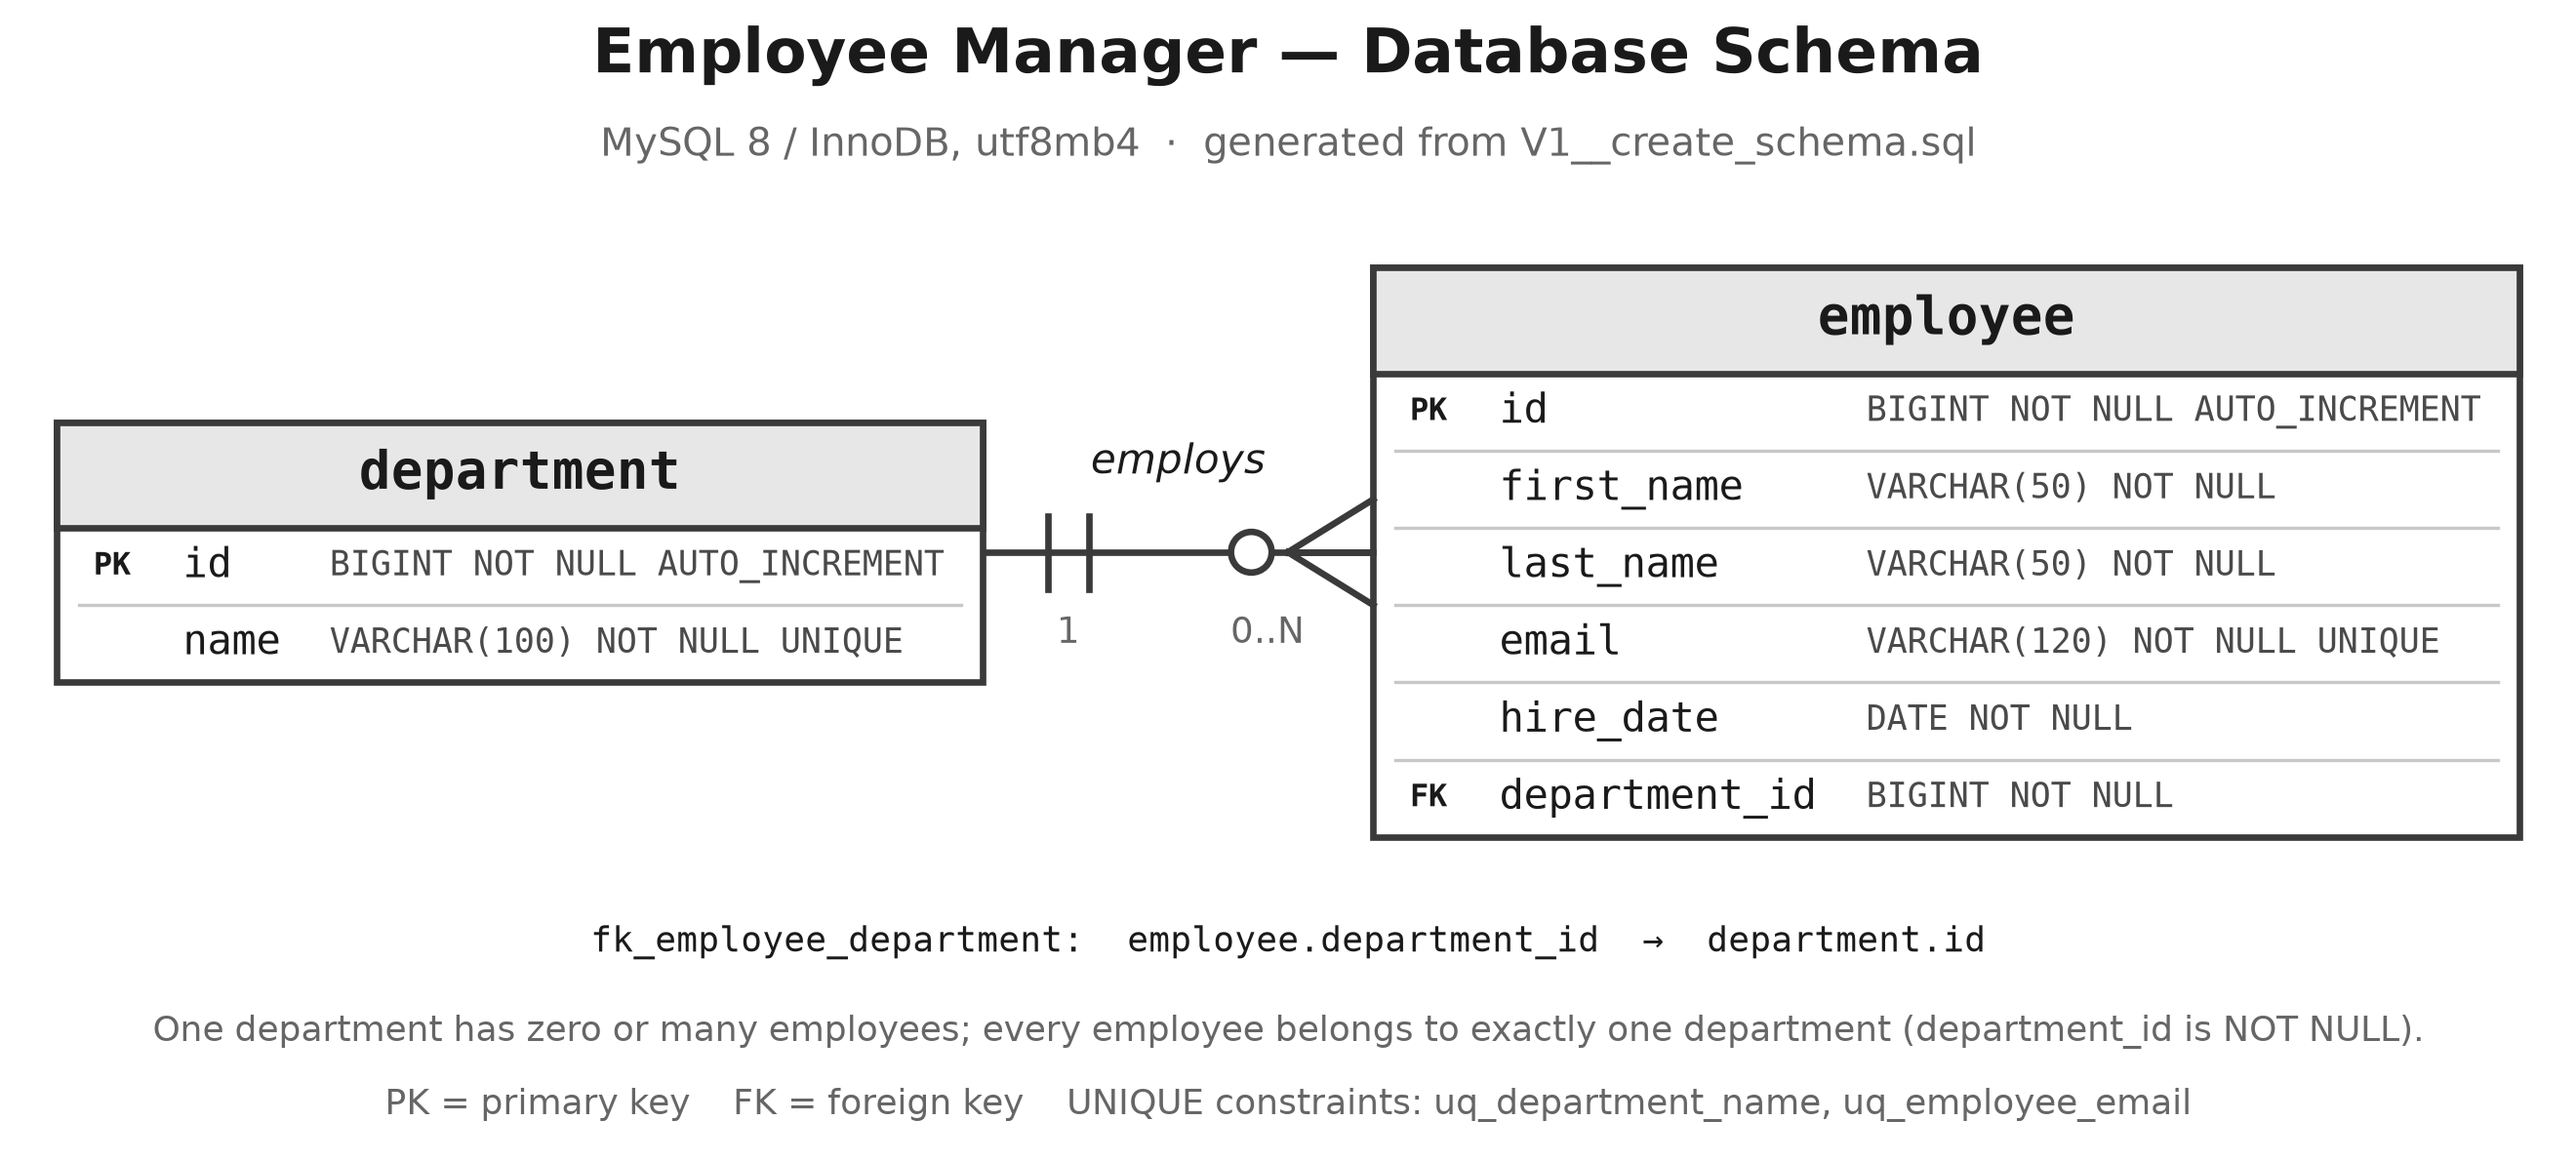
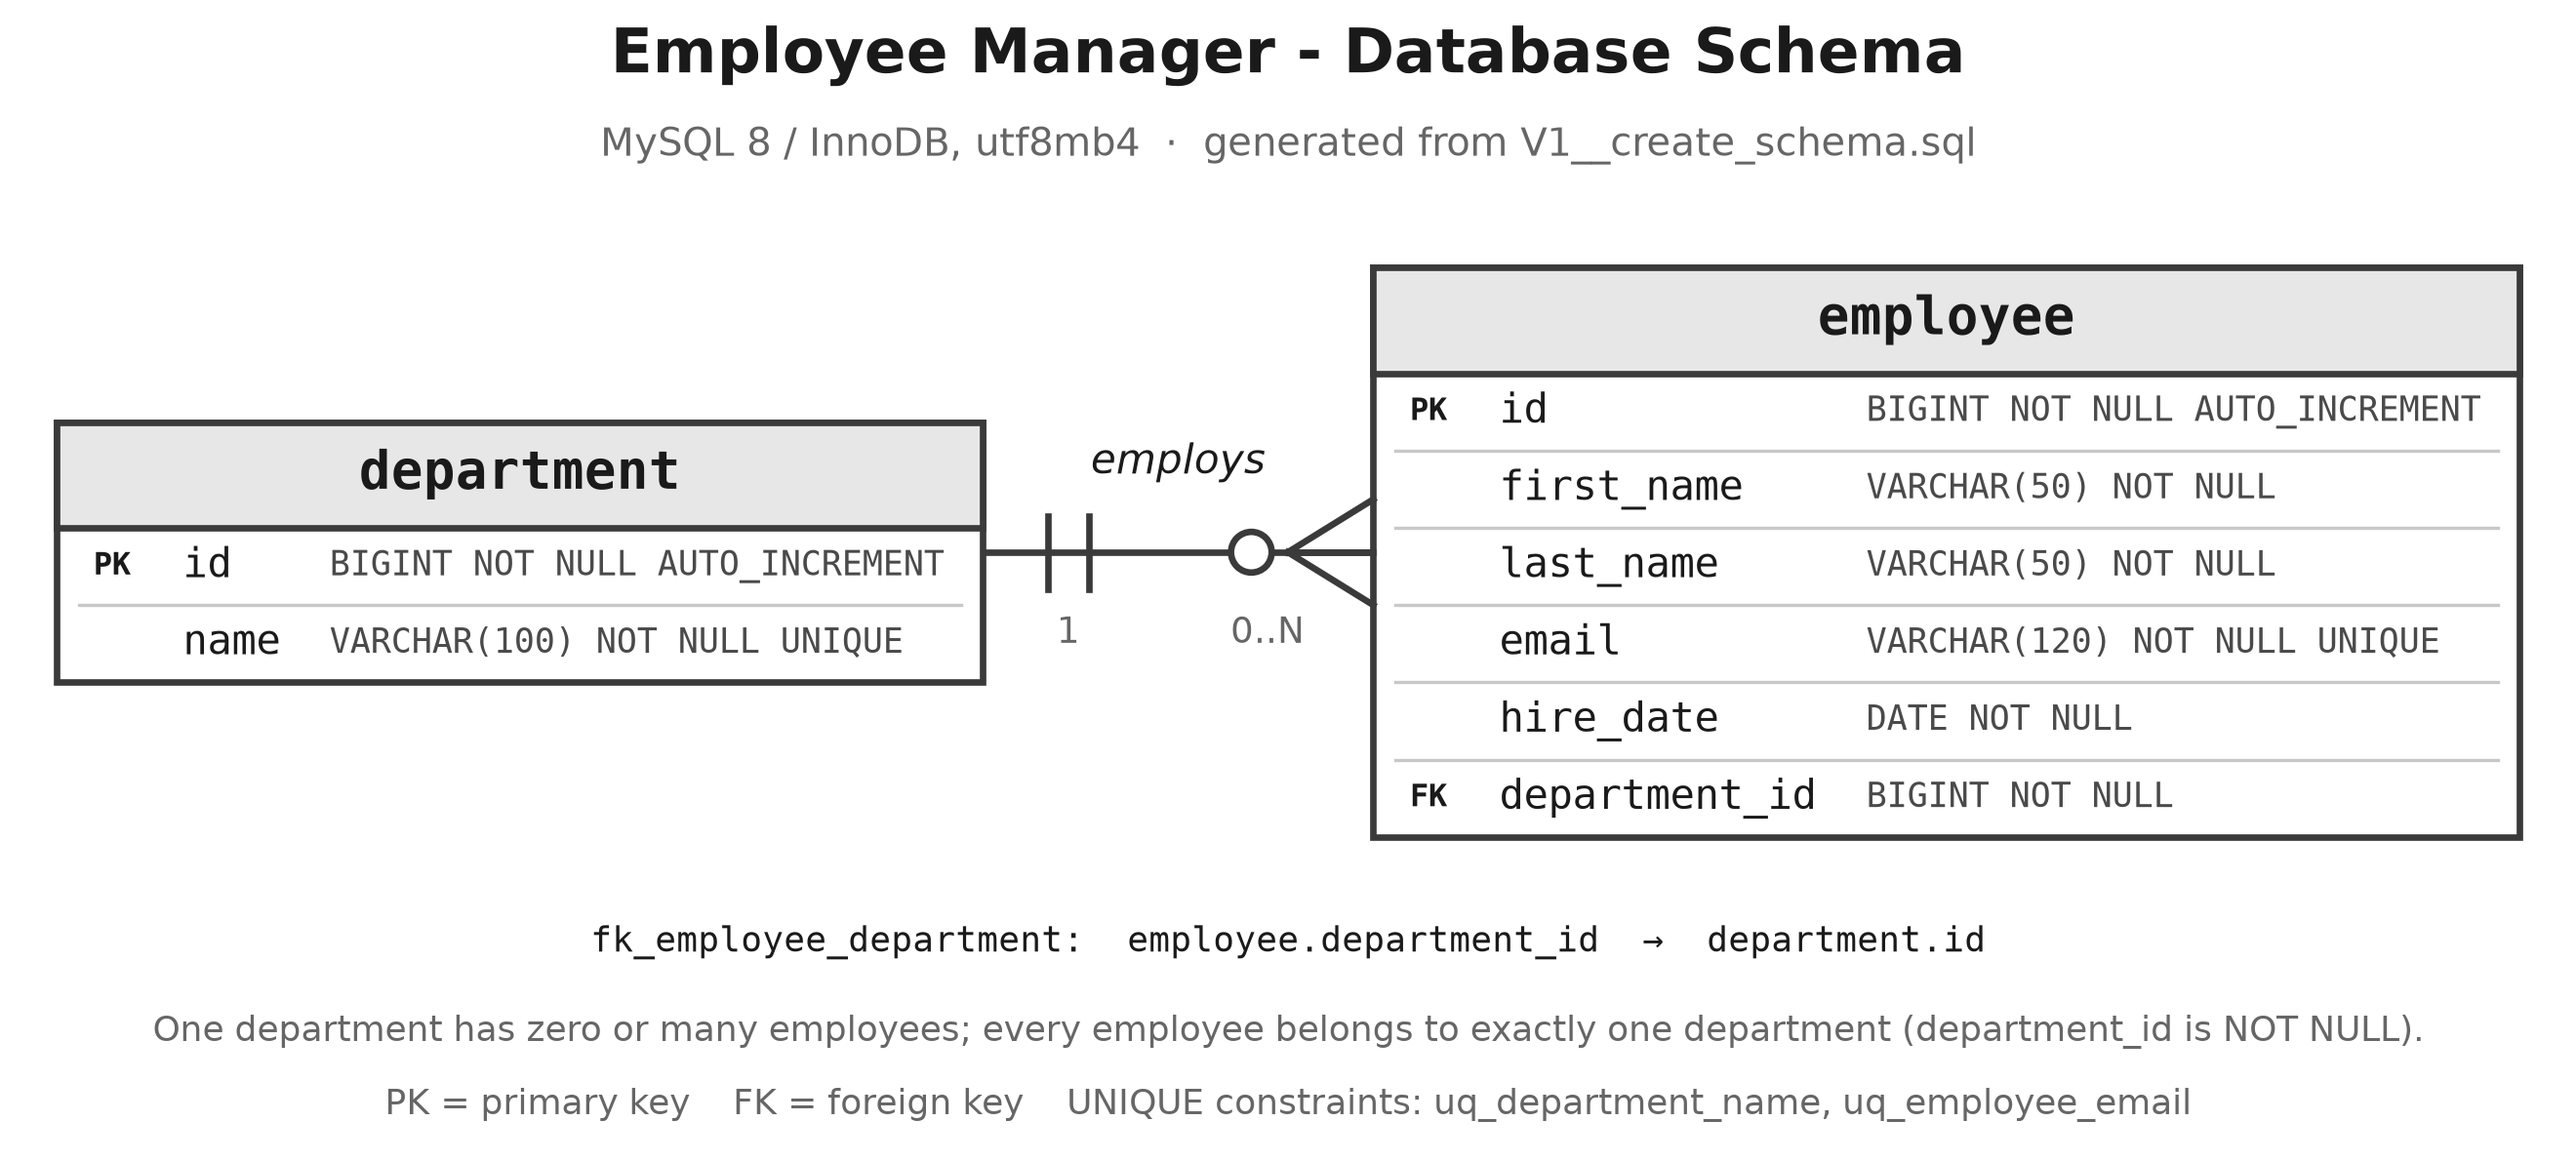
Replace em dashes with hyphens
Swaps every em dash for a plain hyphen across the prose that ships with the
project: 15 literal characters in README.md, 9 &mdash; entities in the home
page template, and the one escape in the ER diagram generator's title.

docs/er-diagram.png regenerated so the rendered title matches the source.

Changed region(s): [[0.2174, 0.0, 0.7765, 0.0932]]

diff --git a/src/main/resources/templates/index.html b/src/main/resources/templates/index.html
@@ -28,10 +28,10 @@
                         All four CRUD operations are reachable from the UI.
                     </p>
                     <ul class="list-unstyled mb-3">
-                        <li><strong>Create</strong> &mdash; add an employee from the shared form</li>
-                        <li><strong>Read</strong> &mdash; browse the roster or open one employee</li>
-                        <li><strong>Update</strong> &mdash; edit an existing employee</li>
-                        <li><strong>Delete</strong> &mdash; remove an employee from the roster</li>
+                        <li><strong>Create</strong> - add an employee from the shared form</li>
+                        <li><strong>Read</strong> - browse the roster or open one employee</li>
+                        <li><strong>Update</strong> - edit an existing employee</li>
+                        <li><strong>Delete</strong> - remove an employee from the roster</li>
                     </ul>
                     <a class="btn btn-primary" th:href="@{/employees}">Browse employees</a>
                 </div>
@@ -47,14 +47,14 @@
                         target supplies its own values and the application adapts.
                     </p>
                     <ul class="list-unstyled mb-0">
-                        <li><strong>Java 17 &middot; Spring Boot 3</strong> &mdash; single executable jar</li>
-                        <li><strong>Externalized config</strong> &mdash; database host, name and
+                        <li><strong>Java 17 &middot; Spring Boot 3</strong> - single executable jar</li>
+                        <li><strong>Externalized config</strong> - database host, name and
                             credentials all read from environment variables</li>
-                        <li><strong>Flyway migrations</strong> &mdash; the schema and seed data
+                        <li><strong>Flyway migrations</strong> - the schema and seed data
                             rebuild themselves on a brand new database</li>
-                        <li><strong>SLF4J logging</strong> &mdash; every CRUD operation logged at
+                        <li><strong>SLF4J logging</strong> - every CRUD operation logged at
                             INFO to stdout, where cloud log collectors can read it</li>
-                        <li><strong>Health endpoints</strong> &mdash;
+                        <li><strong>Health endpoints</strong> -
                             <a th:href="@{/health}">/health</a> for liveness and
                             <a th:href="@{/actuator/health}">/actuator/health</a> for readiness</li>
                     </ul>

diff --git a/docs/generate_er_diagram.py b/docs/generate_er_diagram.py
@@ -117,7 +117,7 @@ ax.text(RX - 26, -20, "0..N", ha="center", va="center", fontsize=8.8,
         family=SANS, color=SUBTLE)
 
 cx = content_w / 2.0
-ax.text(cx, TITLE_Y, "Employee Manager \u2014 Database Schema", ha="center",
+ax.text(cx, TITLE_Y, "Employee Manager - Database Schema", ha="center",
         va="center", fontsize=F_TITLE, fontweight="bold", family=SANS, color=INK)
 ax.text(cx, SUB_Y, "MySQL 8 / InnoDB, utf8mb4  \u00b7  generated from V1__create_schema.sql",
         ha="center", va="center", fontsize=F_SUB, family=SANS, color=SUBTLE)

diff --git a/README.md b/README.md
@@ -5,8 +5,8 @@ A small Spring Boot CRUD web application built for **CST-323 Cloud Computing**.
 The feature set is intentionally minimal. The point of the project is not the
 application itself but moving it, unchanged, onto a series of cloud platforms
 (Azure first) and observing what each platform asks of it. Everything that varies
-between environments — database host, database name, credentials, HTTP port, TLS
-mode — is read from environment variables, so the same jar runs everywhere.
+between environments - database host, database name, credentials, HTTP port, TLS
+mode - is read from environment variables, so the same jar runs everywhere.
 
 ## Domain
 
@@ -23,7 +23,7 @@ Department (1) ──────< (many) Employee
 |------------|----------------------------------------------|
 | Language   | Java 17                                      |
 | Framework  | Spring Boot 3.4                              |
-| Build      | Maven (wrapper included — no local install)  |
+| Build      | Maven (wrapper included - no local install)  |
 | Web        | Spring MVC + Thymeleaf                       |
 | Styling    | Bootstrap 5 via CDN                          |
 | Data       | Spring Data JPA / Hibernate                  |
@@ -35,7 +35,7 @@ Department (1) ──────< (many) Employee
 ## Prerequisites
 
 - **JDK 17 or newer** (`java -version`)
-- **Docker Desktop** — only to run MySQL locally. If MySQL is already installed
+- **Docker Desktop** - only to run MySQL locally. If MySQL is already installed
   natively, skip Docker and point the environment variables at that instance.
 
 Maven itself is **not** required: `mvnw` / `mvnw.cmd` download it on first use.
@@ -48,7 +48,7 @@ Start the database:
 docker compose up -d --wait
 ```
 
-Then run the app. `DB_PASSWORD` has no default, so it has to be supplied — for local
+Then run the app. `DB_PASSWORD` has no default, so it has to be supplied - for local
 development that is the password `docker-compose.yml` gives the container:
 
 ```bash
@@ -61,7 +61,7 @@ In PowerShell:
 $env:DB_PASSWORD = 'employee_app_pw'; .\mvnw.cmd spring-boot:run
 ```
 
-Leaving `DB_PASSWORD` unset is not a silent failure — the app refuses to start and
+Leaving `DB_PASSWORD` unset is not a silent failure - the app refuses to start and
 says `Could not resolve placeholder 'DB_PASSWORD'`. That is deliberate; see
 [Configuration](#configuration).
 
@@ -83,7 +83,7 @@ reseed the schema the next time the application starts.
 
 | URL                     | Method   | Purpose                                    |
 |-------------------------|----------|--------------------------------------------|
-| `/`                     | GET      | Home — project description and navigation  |
+| `/`                     | GET      | Home - project description and navigation  |
 | `/employees`            | GET      | All employees, with Edit and Delete buttons |
 | `/employees/new`        | GET      | Blank form (shared template)               |
 | `/employees`            | POST     | **Create**                                  |
@@ -91,8 +91,8 @@ reseed the schema the next time the application starts.
 | `/employees/{id}/edit`  | GET      | Populated form (same shared template)      |
 | `/employees/{id}`       | POST     | **Update**                                  |
 | `/employees/{id}/delete`| POST     | **Delete** (POST so a link prefetch cannot fire it) |
-| `/health`               | GET      | Liveness probe — JSON, does not touch the DB |
-| `/actuator/health`      | GET      | Readiness probe — includes DB connectivity  |
+| `/health`               | GET      | Liveness probe - JSON, does not touch the DB |
+| `/actuator/health`      | GET      | Readiness probe - includes DB connectivity  |
 | `/actuator/info`        | GET      | Build and application metadata              |
 
 All four CRUD operations are reachable from the UI: **Add Employee** in the nav
@@ -110,7 +110,7 @@ defined in `src/main/resources/application.properties`.
 | `DB_PORT`               | `3306`             | Database port                                   |
 | `DB_NAME`               | `employeedb`       | Schema name                                     |
 | `DB_USER`               | `employee_app`     | Database user                                   |
-| `DB_PASSWORD`           | **none — required** | Database password. No fallback; unset fails at startup |
+| `DB_PASSWORD`           | **none - required** | Database password. No fallback; unset fails at startup |
 | `DB_SSL_MODE`           | `DISABLED`         | `REQUIRED` for managed MySQL such as Azure      |
 | `DB_POOL_MAX`           | `10`               | Maximum Hikari pool size                        |
 | `DB_POOL_MIN`           | `2`                | Minimum idle connections                        |
@@ -144,7 +144,7 @@ defined in `src/main/resources/application.properties`.
 >
 > An intentionally empty password is still allowed: set `DB_PASSWORD=` explicitly.
 >
-> Supply it from the platform's secret store — Azure App Service application settings,
+> Supply it from the platform's secret store - Azure App Service application settings,
 > Key Vault references, container secrets, and so on. The remaining defaults are for
 > local development only and match `docker-compose.yml`.
 >
@@ -162,9 +162,9 @@ DB_HOST=my-server.mysql.database.azure.com DB_SSL_MODE=REQUIRED DB_USER=appuser 
 Flyway owns the schema; Hibernate is set to `validate` and never alters tables.
 Migrations live in `src/main/resources/db/migration`:
 
-- `V1__create_schema.sql` — the `department` and `employee` tables plus the
+- `V1__create_schema.sql` - the `department` and `employee` tables plus the
   foreign key between them
-- `V2__seed_data.sql` — four departments and six employees
+- `V2__seed_data.sql` - four departments and six employees
 
 Flyway records what it has applied in a `flyway_schema_history` table, so pointing
 the app at a fresh cloud database provisions it automatically, and pointing it at
@@ -190,8 +190,8 @@ CRUD operation is logged at **INFO** by `EmployeeService`:
 ```
 
 Output goes to the console only. That is deliberate: cloud instances are
-disposable and their local disks are not durable, so stdout — which every
-platform's log collector already reads — is the one destination that works
+disposable and their local disks are not durable, so stdout - which every
+platform's log collector already reads - is the one destination that works
 unchanged on all of them.
 
 ## Tests
